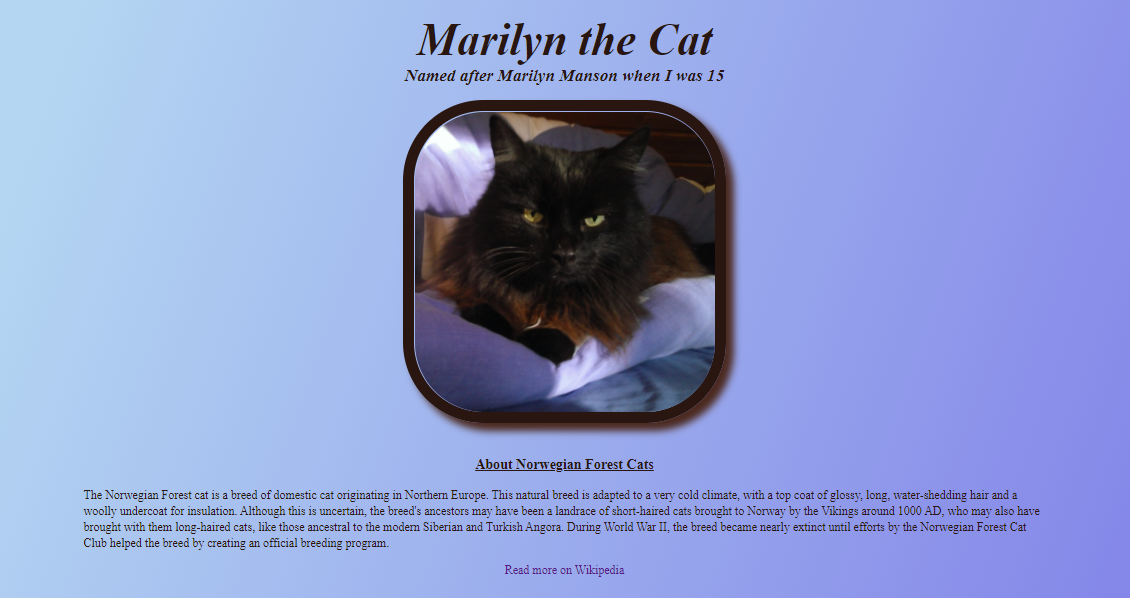
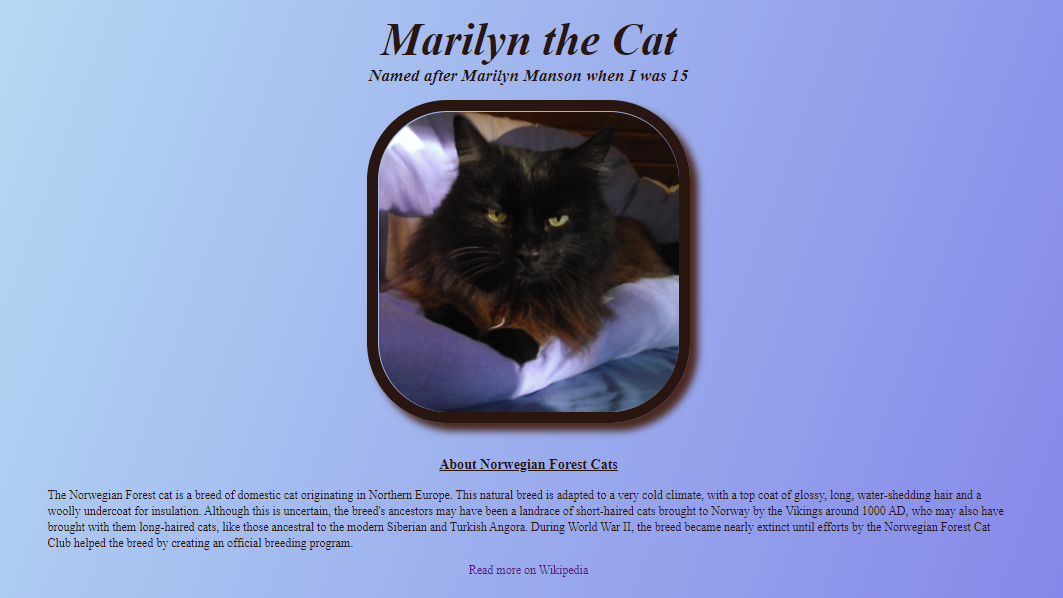
final styling

diff --git a/index.html b/index.html
@@ -65,7 +65,7 @@
           <img
             src="src/Marilyn_the_cat_screenshot.png"
             alt="Marilyn the cat"
-            class="img-fluid rounded"
+            class="img-fluid rounded border border-secondary shadow"
           />
         </div>
         <div class="col-6">
@@ -77,7 +77,11 @@
             Vater, du den Erlkönig nicht? Den Erlenkönig mit Kron und Schweif? -
             Mein Sohn, es ist ein Nebelstreif. -
           </p>
-          <a href="#"><button class="app-button">Meet Marilyn</button></a>
+          <a
+            href="https://www.shecodes.io/workshops/shecodes-online-workshop-60-0/projects/313964"
+            target="_blank"
+            ><button class="app-button">Meet Marilyn</button></a
+          >
         </div>
       </div>
       <br />
@@ -103,7 +107,7 @@
           <img
             src="src/weather_app_screenshot.png"
             alt="Vanilla Weather App"
-            class="img-fluid rounded"
+            class="img-fluid rounded border border-secondary shadow"
           />
         </div>
       </div>
@@ -115,7 +119,7 @@
           <img
             src="src/Shecodes_screenshot.png"
             alt="Shecodes Homepage"
-            class="img-fluid rounded"
+            class="img-fluid rounded border border-secondary shadow"
           />
         </div>
         <div class="col-6">
@@ -133,7 +137,12 @@
         </div>
       </div>
     </div>
-
+    <br />
+    <hr />
+    <br />
+    <footer class="signature mb-5">
+      <a href="#">Open-source code</a> 🐞by Julia Bestgen💃
+    </footer>
     <script
       src="https://cdn.jsdelivr.net/npm/bootstrap@5.0.2/dist/js/bootstrap.bundle.min.js"
       integrity="sha384-MrcW6ZMFYlzcLA8Nl+NtUVF0sA7MsXsP1UyJoMp4YLEuNSfAP+JcXn/tWtIaxVXM"

diff --git a/src/style.css b/src/style.css
@@ -13,8 +13,7 @@
 h1,
 h2,
 h3,
-h4,
-footer {
+h4 {
   text-align: center;
 }
 
@@ -51,18 +50,6 @@ h3 {
   transition: all 300ms ease-in-out;
 }
 
-.app-button {
-  color: var(--button-color);
-  font-size: 17px;
-  font-weight: bold;
-  padding: 25px;
-  margin: 5px;
-  border: 1px solid var(--button-color);
-  border-radius: 6px;
-  box-shadow: 2px 2px 2px var(--button-lighter-color);
-  transition: all 300ms ease-in-out;
-}
-
 button:hover {
   cursor: pointer;
 }
@@ -86,19 +73,36 @@ button:hover {
   background-color: var(--button-lighter-color);
 }
 
+.app-button {
+  color: var(--button-color);
+  font-size: 17px;
+  font-weight: bold;
+  padding: 25px;
+  margin: 5px;
+  border: 1px solid var(--button-color);
+  border-radius: 6px;
+  box-shadow: 2px 2px 2px var(--button-lighter-color);
+  transition: all 300ms ease-in-out;
+}
+
 .my-apps p {
   text-align: center;
 }
 
-footer {
-  margin-top: 25px;
-  font-size: 45px;
-  font-weight: bold;
+.signature {
+  text-align: center;
 }
 
 .about-p {
   font-size: 15px;
   text-align: center;
+}
+
+.contact-me {
+  text-align: center;
+  margin-top: 25px;
+  font-size: 45px;
+  font-weight: bold;
 }
 
 .email-link {

diff --git a/about.html b/about.html
@@ -61,28 +61,28 @@
           <img
             src="src/Marilyn_the_cat_screenshot.png"
             alt="Marilyn the cat"
-            class="img-fluid shadow"
+            class="img-fluid rounded border border-secondary shadow"
           />
         </div>
         <div class="col-sm-4 mb-3">
           <img
             src="src/weather_app_screenshot.png"
             alt="Vanilla Weather App"
-            class="img-fluid shadow"
+            class="img-fluid rounded border border-secondary shadow"
           />
         </div>
         <div class="col-sm-4 mb-3">
           <img
             src="src/Shecodes_screenshot.png"
             alt="Shecodes Homepage"
-            class="img-fluid shadow"
+            class="img-fluid rounded border border-secondary shadow"
           />
         </div>
       </div>
     </div>
     <br />
     <hr />
-    <footer id="contact-me">💌 Contact me</footer>
+    <footer id="contact-me" class="contact-me">💌 Contact me</footer>
     <a href="mailto:psyjulga@yahoo.de" class="email-link">psyjulga@yahoo.de</a>
     <script
       src="https://cdn.jsdelivr.net/npm/bootstrap@5.0.2/dist/js/bootstrap.bundle.min.js"
